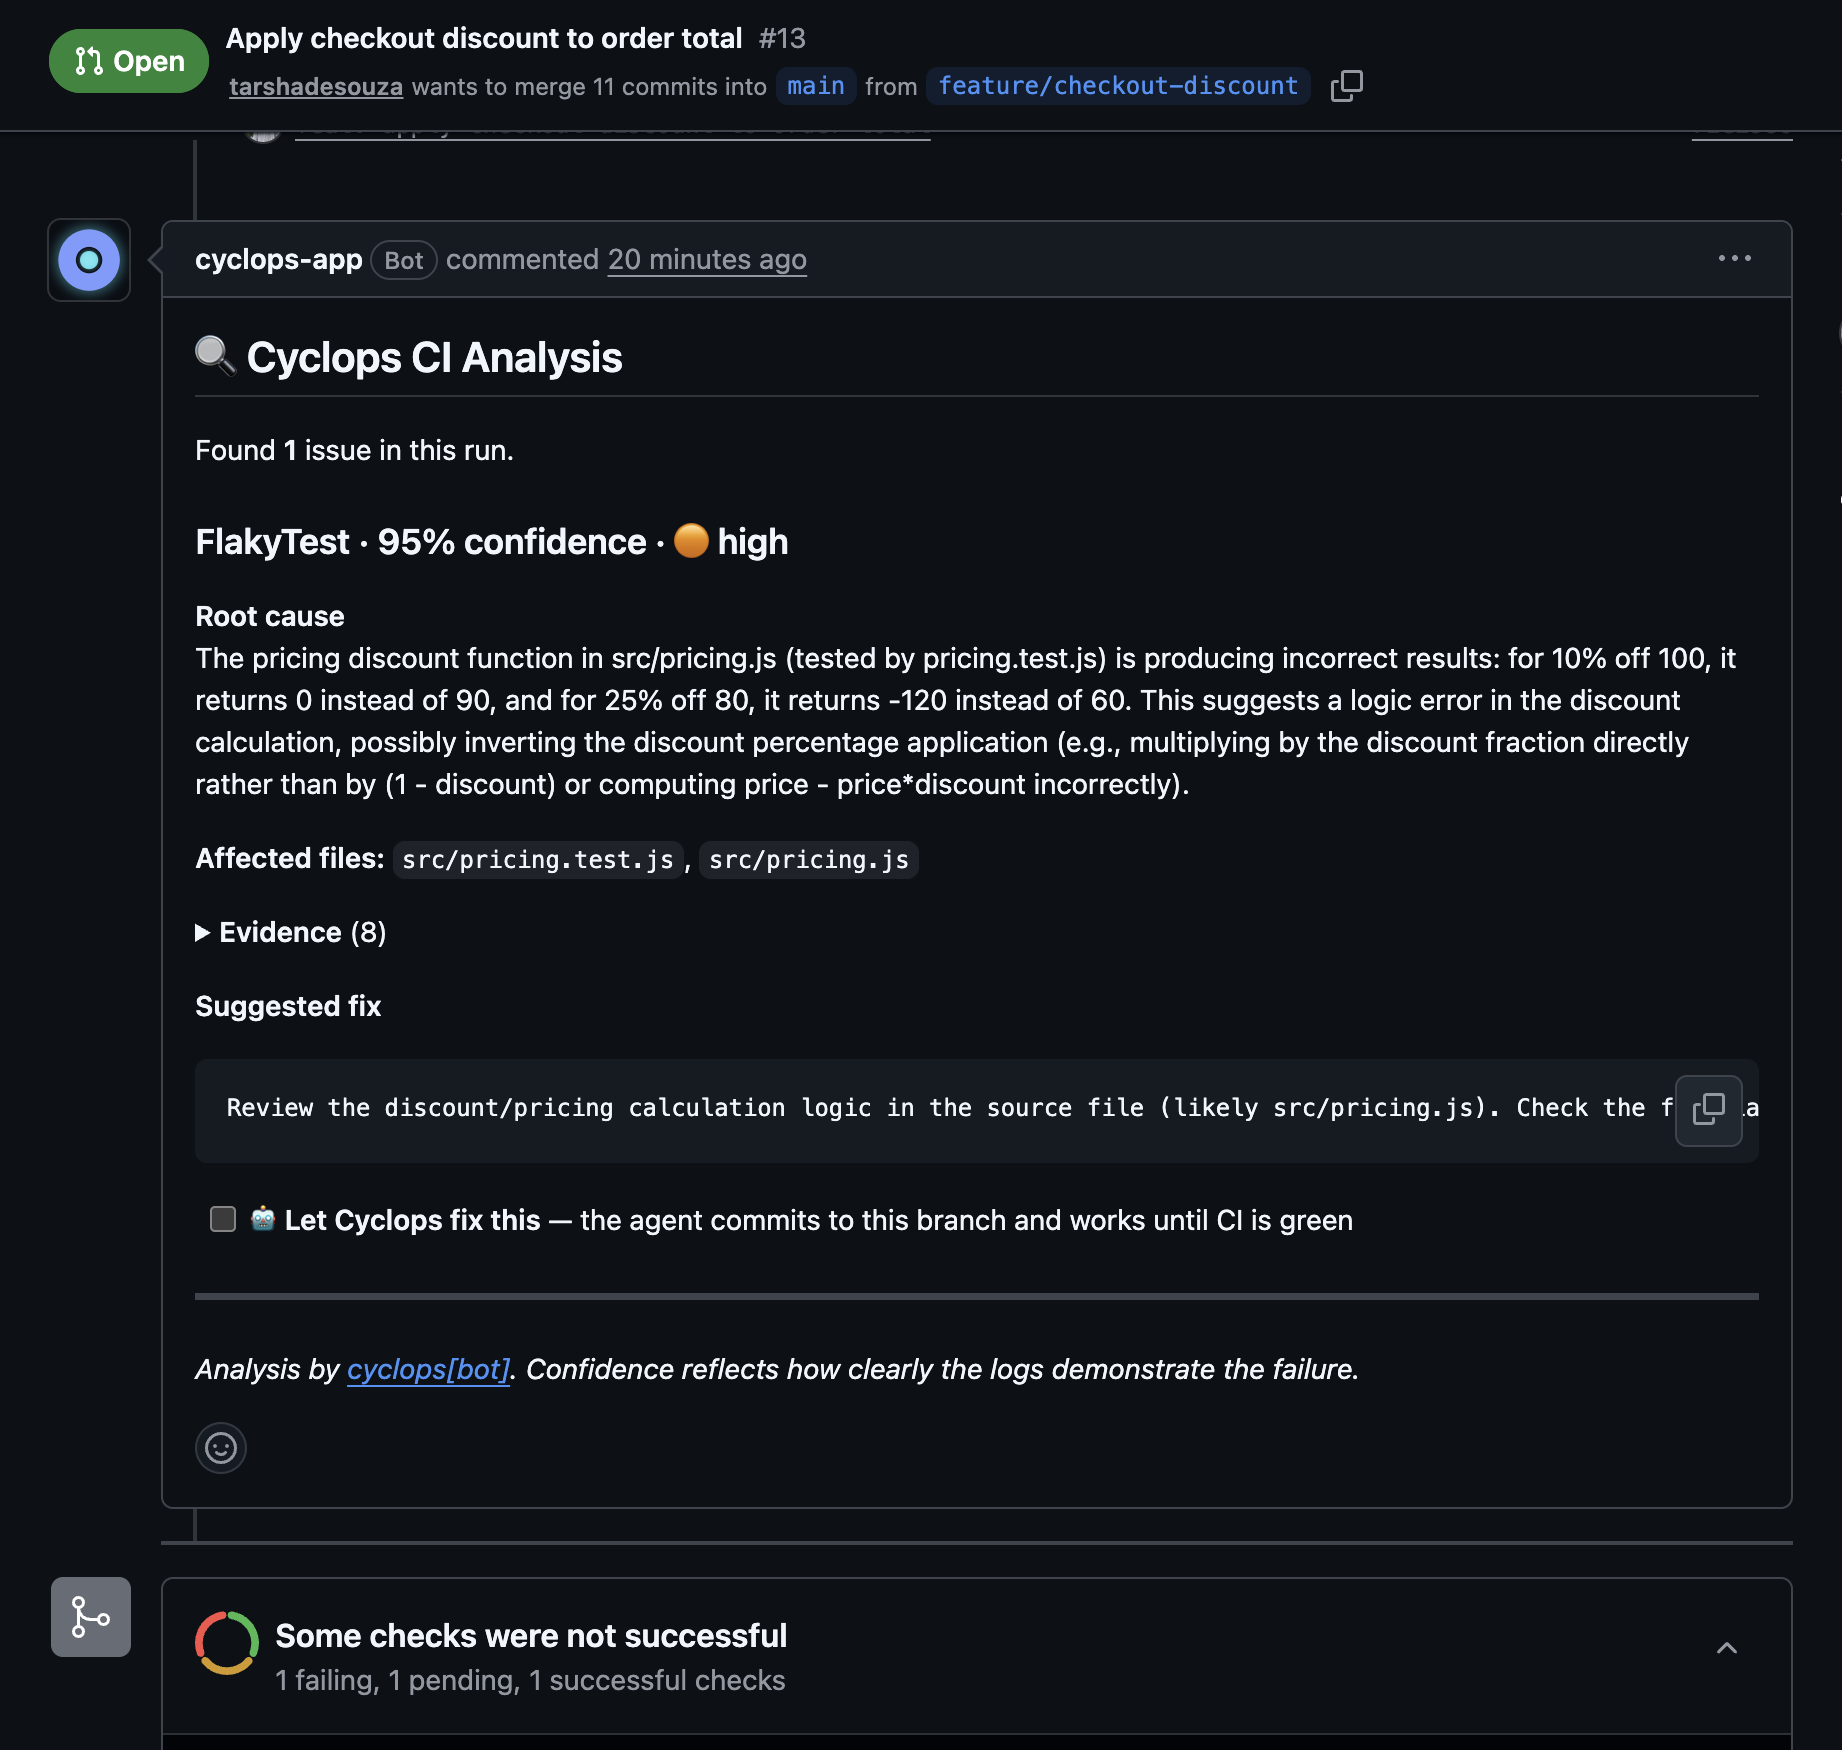
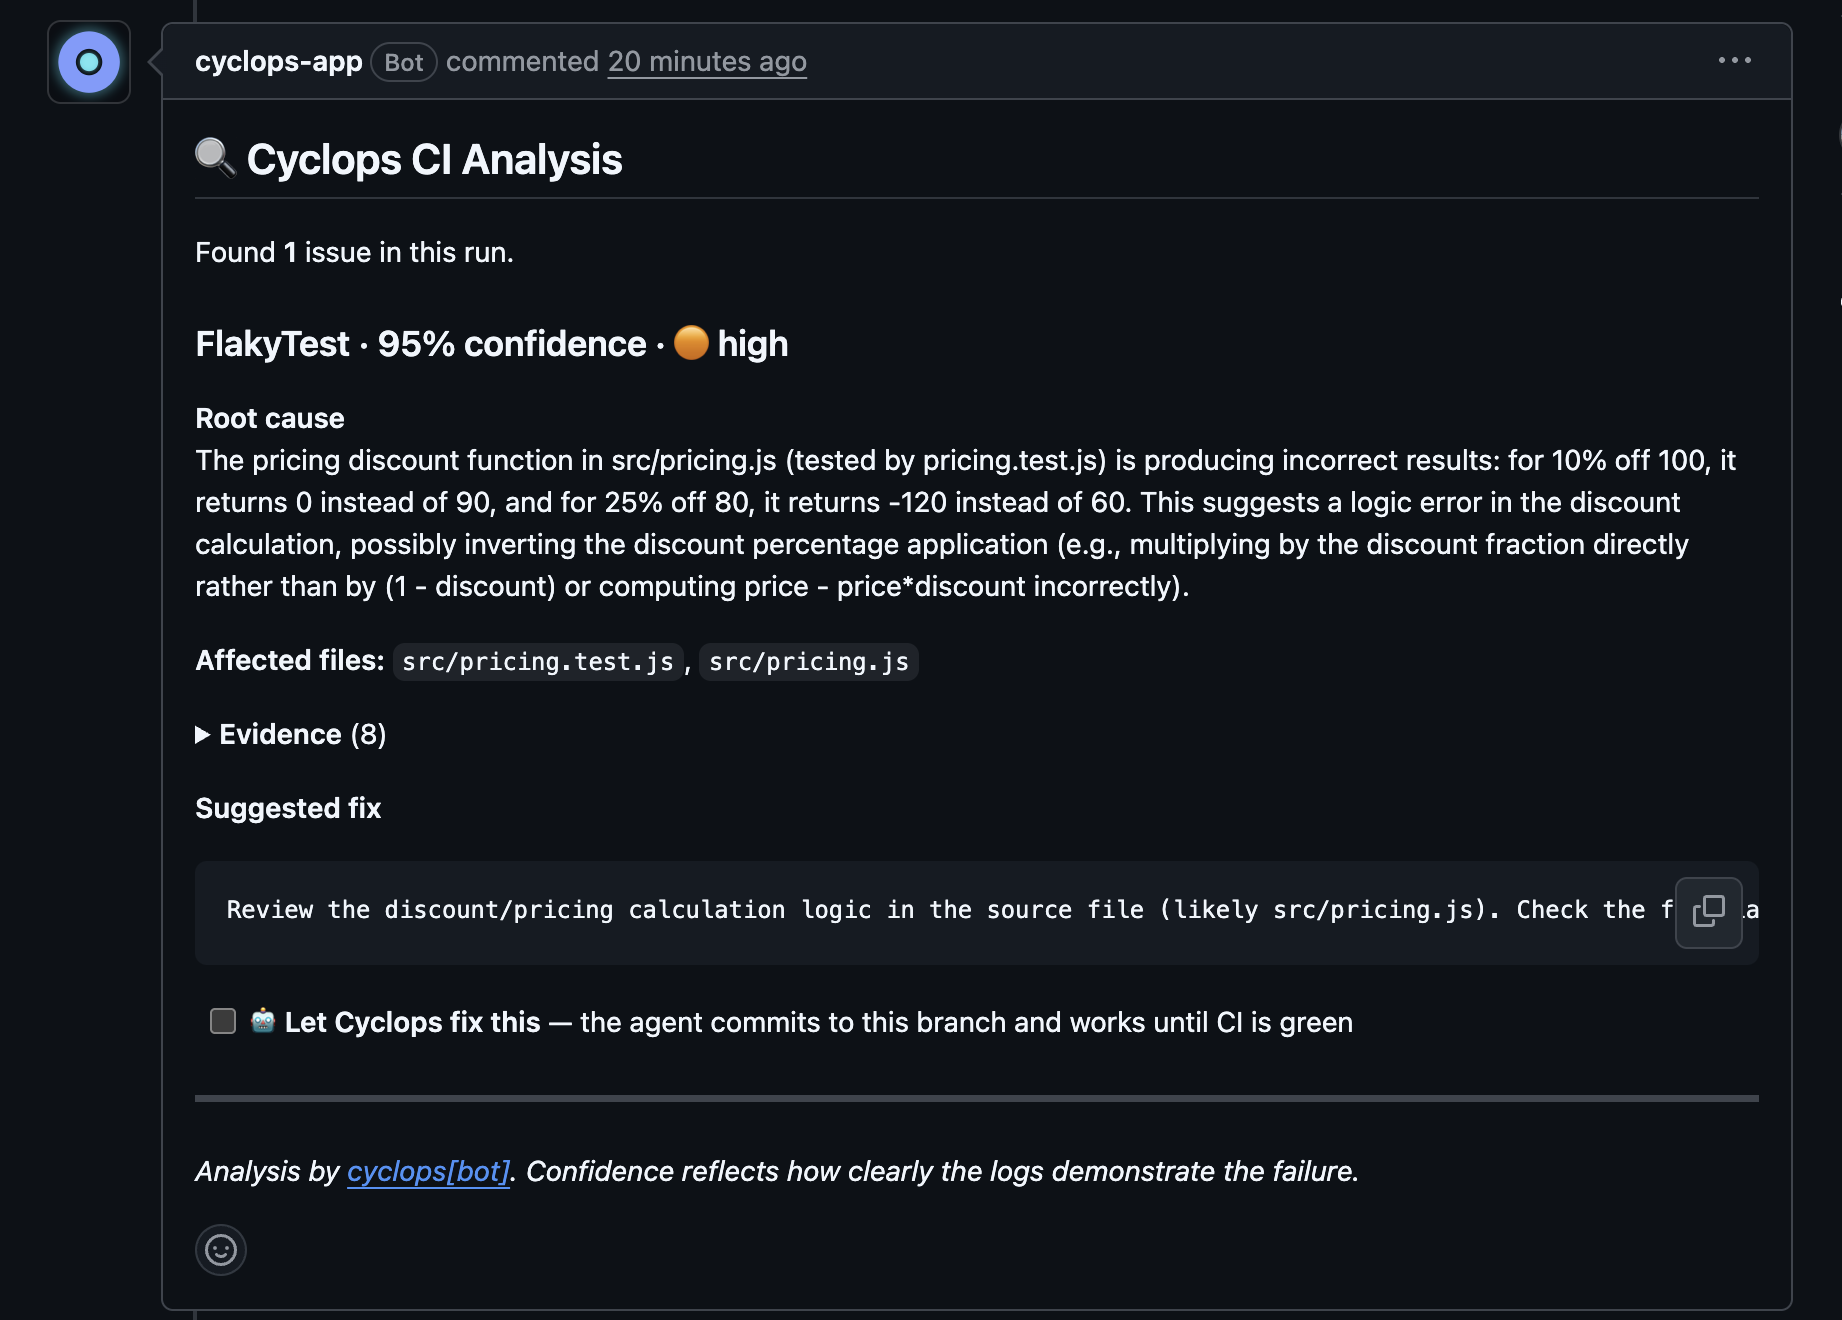
docs: tighten flow screenshots + stack them uniformly
Crop flow-1 to just the analysis comment and flow-2 to just the 'on it'
comment (was showing both comments); present all three as a centered,
uniform-width vertical stack instead of a ragged 3-column grid.

diff --git a/docs/index.html b/docs/index.html
@@ -232,16 +232,16 @@
 
     <p class="lead" style="margin-top:40px">Every fix is explicit and permission-gated, posts a live status comment, and stops safely — on success, on a dry run, at the iteration cap, or on error.</p>
 
-    <div class="grid" style="margin-top:28px">
-      <figure style="margin:0">
+    <div style="margin-top:32px; max-width:880px; margin-left:auto; margin-right:auto; display:flex; flex-direction:column; gap:34px">
+      <figure style="margin:0; width:100%">
         <img src="img/flow-1-trigger.png" alt="Cyclops CI Analysis comment with root cause and a 'Let Cyclops fix this' checkbox on a failing PR" loading="lazy" style="width:100%; border-radius:var(--radius); border:1px solid var(--border); display:block" />
         <figcaption style="color:var(--text-dim); font-size:13.5px; margin-top:10px">1 · CyclOps analyzes the failure and offers a fix</figcaption>
       </figure>
-      <figure style="margin:0">
+      <figure style="margin:0; width:100%">
         <img src="img/flow-2-onit.png" alt="The fix checkbox ticked, and Cyclops's '🔧 Cyclops is on it' status comment" loading="lazy" style="width:100%; border-radius:var(--radius); border:1px solid var(--border); display:block" />
         <figcaption style="color:var(--text-dim); font-size:13.5px; margin-top:10px">2 · The agent fixes it and verifies against real CI</figcaption>
       </figure>
-      <figure style="margin:0">
+      <figure style="margin:0; width:100%">
         <img src="img/flow-3-green.png" alt="'✅ Cyclops fixed it — CI is green' comment with the automated fix commit" loading="lazy" style="width:100%; border-radius:var(--radius); border:1px solid var(--border); display:block" />
         <figcaption style="color:var(--text-dim); font-size:13.5px; margin-top:10px">3 · CI goes green — no logs read by hand</figcaption>
       </figure>